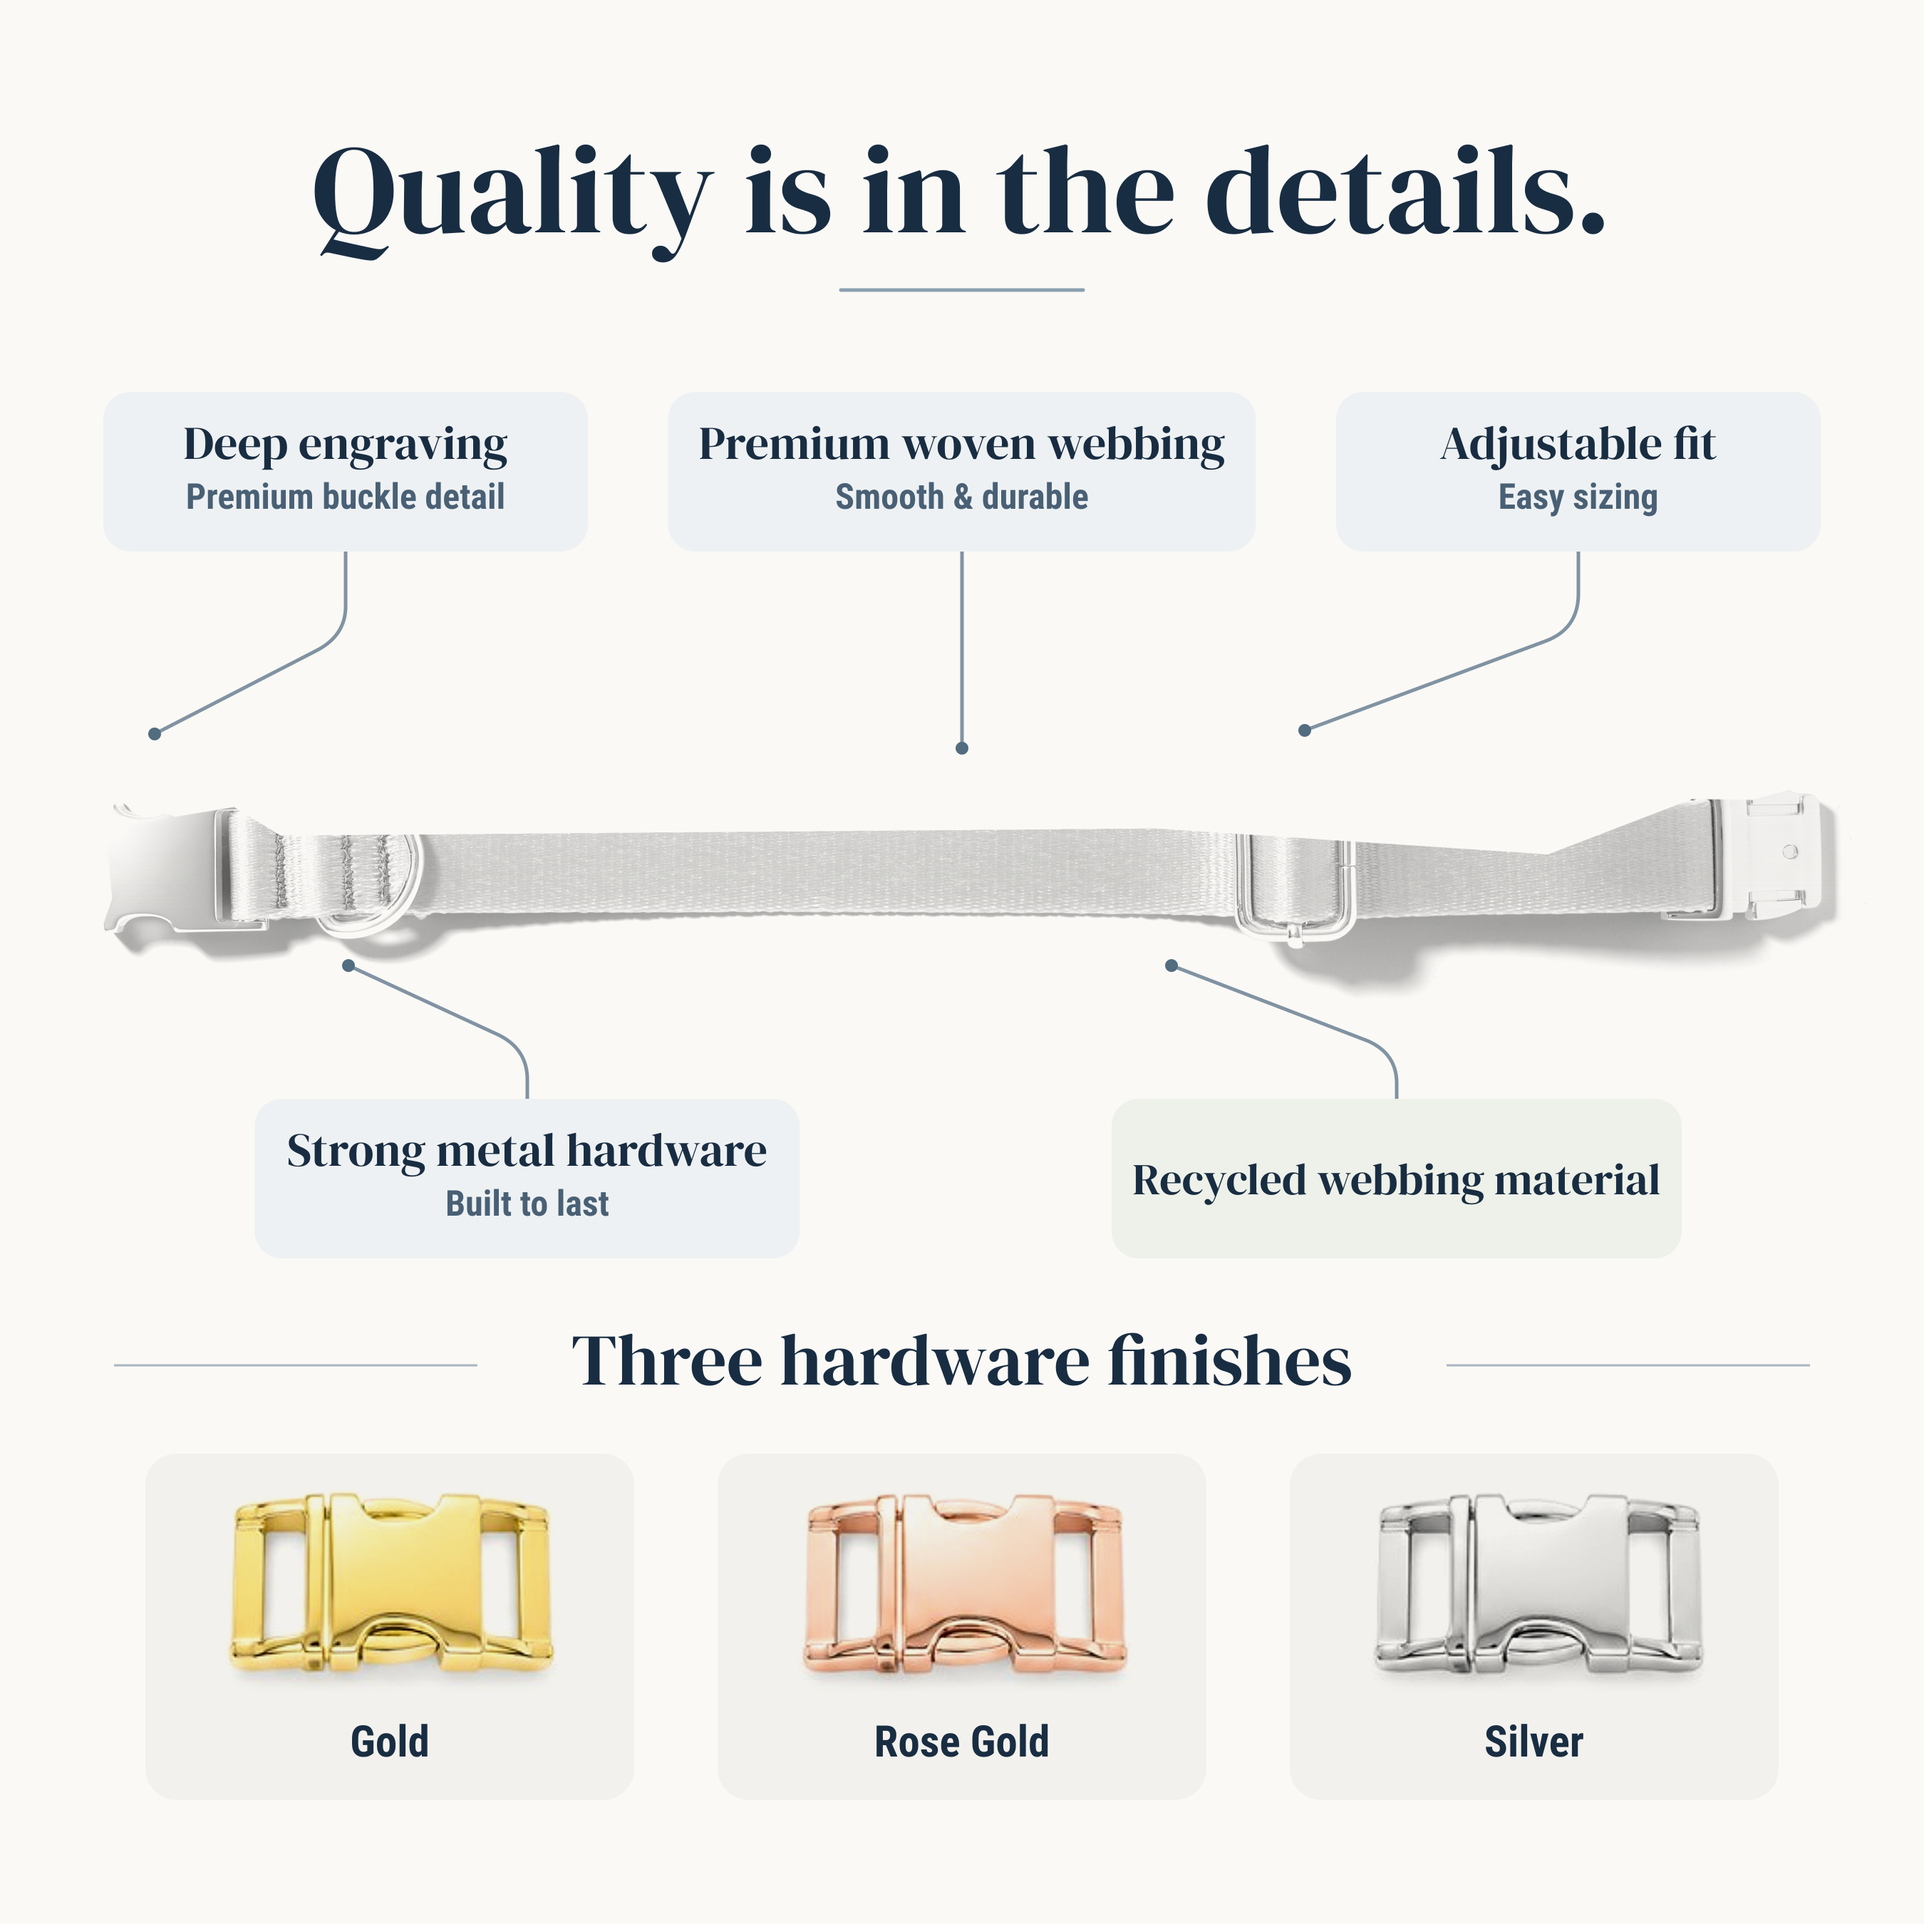
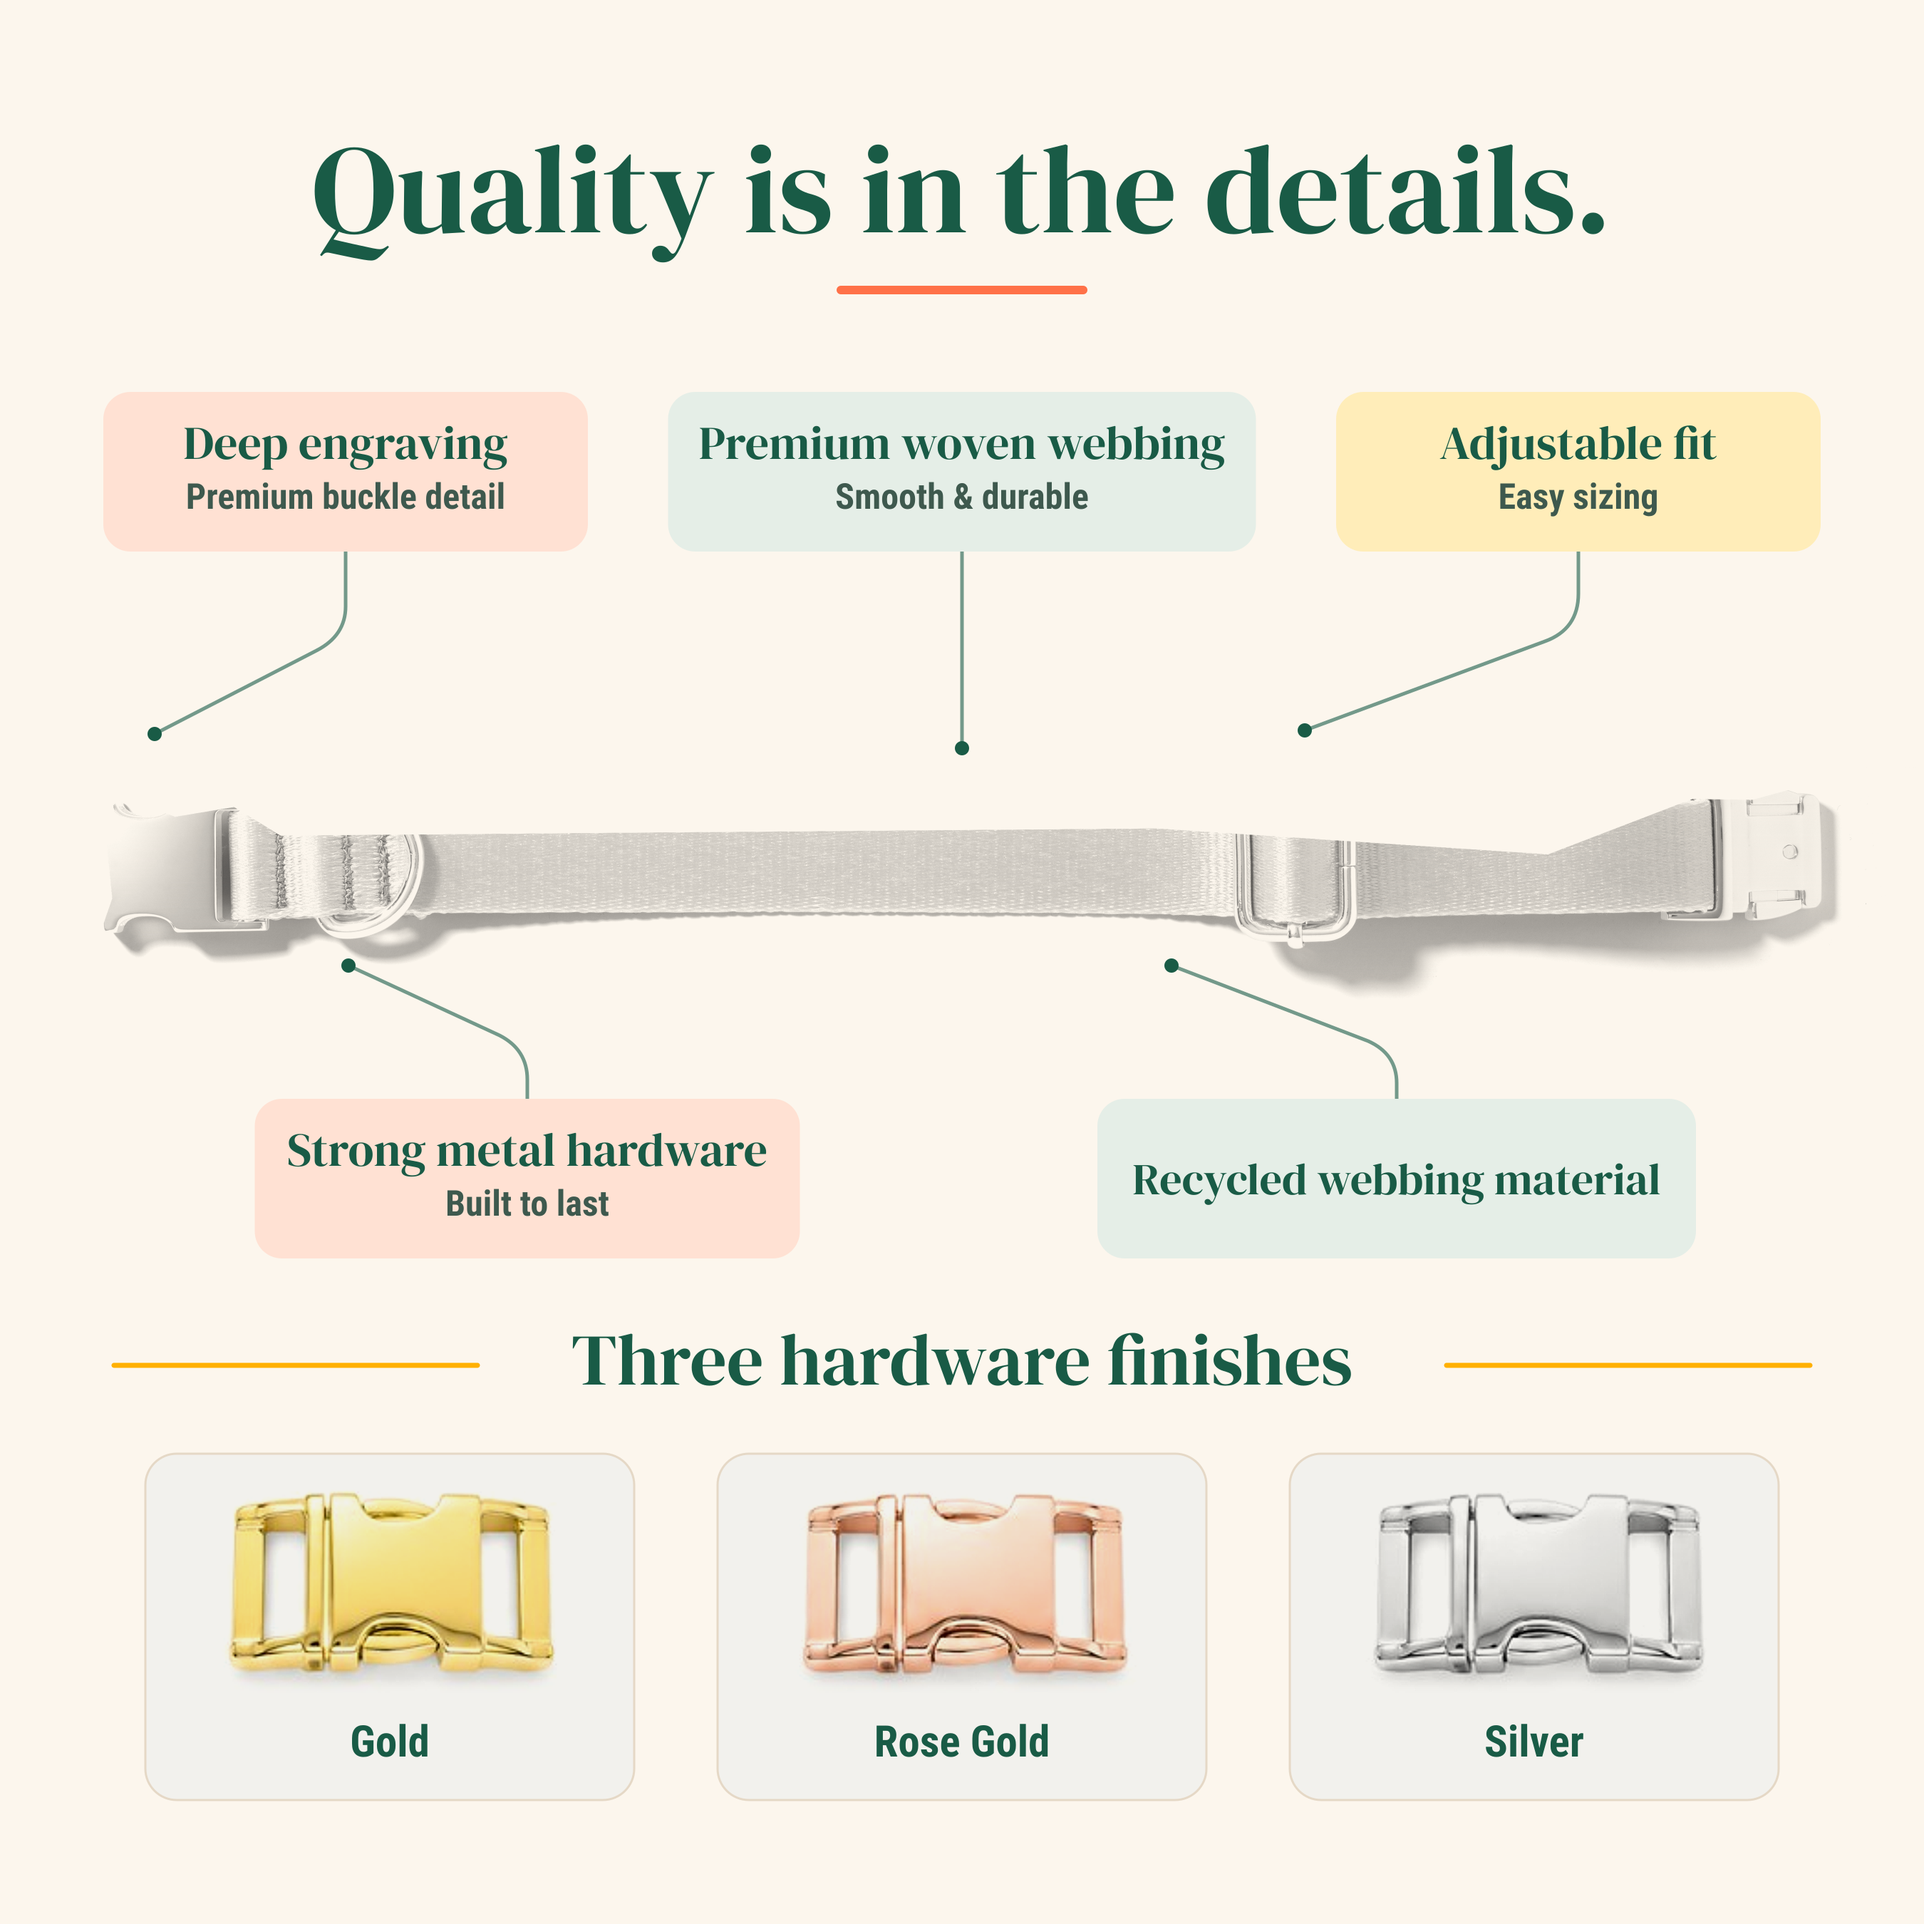
style: add shopify theme based colors in "Quality in th details" image

diff --git a/src/tools/build-details-card.js b/src/tools/build-details-card.js
@@ -11,9 +11,12 @@ const { loadRgba, readTemplate } = require('../mockup/node-io');
 const ID = 'infographic-hd';
 const SIZE = 2700;
 const DIR = `poc/templates/${ID}`;
-const INK = '#192d42';
-const MUTED = '#496075';
-const BACKGROUND = '#faf9f6';
+const INK = '#195b46';
+const MUTED = '#3e594e';
+const BACKGROUND = '#fcf6ed';
+const CORAL = '#ff7148';
+const MARIGOLD = '#ffb000';
+const SAGE = '#e5eee7';
 const SWATCH_CENTERS = [547, 1350, 2153];
 const SWATCH_CROPS = [140, 408, 675];
 const COLLAR_SHIFT = { x: -140, y: 270 };
@@ -34,31 +37,31 @@ function typeset(font, text, x, y, size, color = INK) {
 function artwork(serif, sans) {
   const title = (text, x, y, size) => typeset(serif, text, x, y, size);
   const label = (text, x, y, size, color) => typeset(sans, text, x, y, size, color);
-  const note = (heading, detail, x, y, w, tint = '#eef1f3') => `
+  const note = (heading, detail, x, y, w, tint = SAGE) => `
     <rect x="${x - w / 2}" y="${y}" width="${w}" height="224" rx="38" fill="${tint}"/>
     ${title(heading, x, y + 94, 66)}
     ${label(detail, x, y + 164, 50, MUTED)}`;
-  const guide = (path, x, y) => `<path d="${path}" fill="none" stroke="#8193a2" stroke-width="5"/>
-    <circle cx="${x}" cy="${y}" r="9" fill="#526c80"/>`;
+  const guide = (path, x, y) => `<path d="${path}" fill="none" stroke="#73998a" stroke-width="5"/>
+    <circle cx="${x}" cy="${y}" r="10" fill="${INK}"/>`;
   return Buffer.from(`<svg xmlns="http://www.w3.org/2000/svg" width="${SIZE}" height="${SIZE}">
     <rect width="${SIZE}" height="${SIZE}" fill="${BACKGROUND}"/>
     ${title('Quality is in the details.', 1350, 326, 176)}
-    <path d="M1180 407H1520" stroke="#8ca0ae" stroke-width="5" stroke-linecap="round"/>
+    <path d="M1180 407H1520" stroke="${CORAL}" stroke-width="12" stroke-linecap="round"/>
     ${guide('M485 774V851Q485 892 444 913L217 1030', 217, 1030)}
     ${guide('M1350 774V1050', 1350, 1050)}
     ${guide('M2215 774V833Q2215 883 2168 900L1831 1025', 1831, 1025)}
-    ${note('Deep engraving', 'Premium buckle detail', 485, 550, 680)}
+    ${note('Deep engraving', 'Premium buckle detail', 485, 550, 680, '#ffe1d3')}
     ${note('Premium woven webbing', 'Smooth & durable', 1350, 550, 825)}
-    ${note('Adjustable fit', 'Easy sizing', 2215, 550, 680)}
+    ${note('Adjustable fit', 'Easy sizing', 2215, 550, 680, '#ffedb9')}
     ${guide('M740 1542V1515Q740 1473 701 1453L489 1355', 489, 1355)}
     ${guide('M1960 1542V1520Q1960 1479 1920 1461L1644 1355', 1644, 1355)}
-    ${note('Strong metal hardware', 'Built to last', 740, 1542, 765)}
-    <rect x="1560" y="1542" width="800" height="224" rx="38" fill="#edf1e9"/>
+    ${note('Strong metal hardware', 'Built to last', 740, 1542, 765, '#ffe1d3')}
+    <rect x="1540" y="1542" width="840" height="224" rx="38" fill="${SAGE}"/>
     ${title('Recycled webbing material', 1960, 1676, 62)}
-    <path d="M160 1916H670M2030 1916H2540" stroke="#a8b5bf" stroke-width="3"/>
+    <path d="M160 1916H670M2030 1916H2540" stroke="${MARIGOLD}" stroke-width="7" stroke-linecap="round"/>
     ${title('Three hardware finishes', 1350, 1943, 102)}
     ${SWATCH_CENTERS.map((x, i) => `
-      <rect x="${x - 343}" y="2040" width="686" height="486" rx="44" fill="#f2f1ed"/>
+      <rect x="${x - 343}" y="2040" width="686" height="486" rx="44" fill="#f2f1ed" stroke="#e5d8c6" stroke-width="3"/>
       ${label(['Gold', 'Rose Gold', 'Silver'][i], x, 2465, 61)}
     `).join('')}
   </svg>`);
